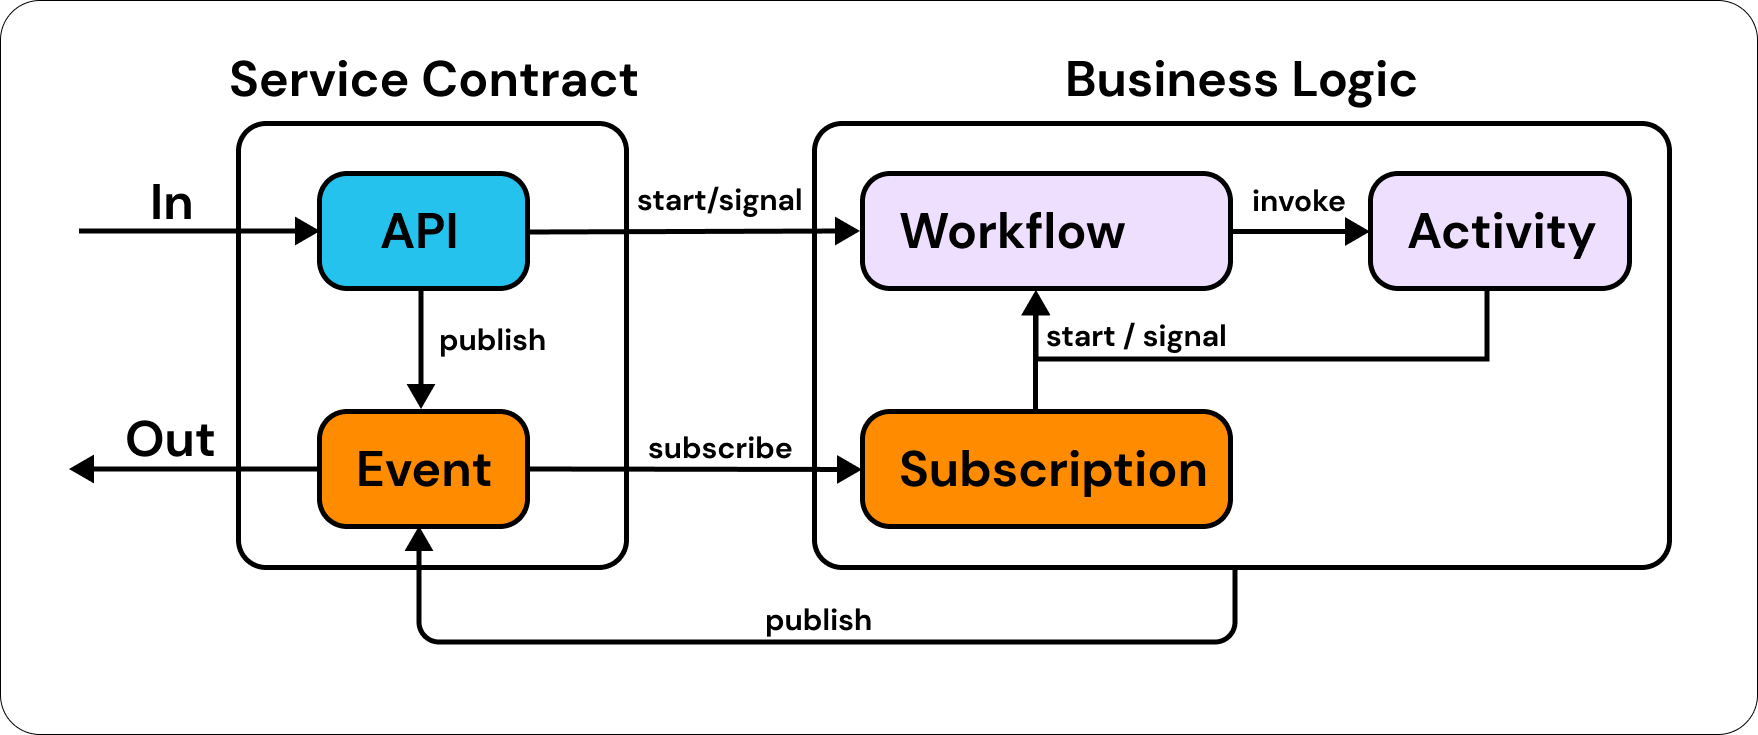
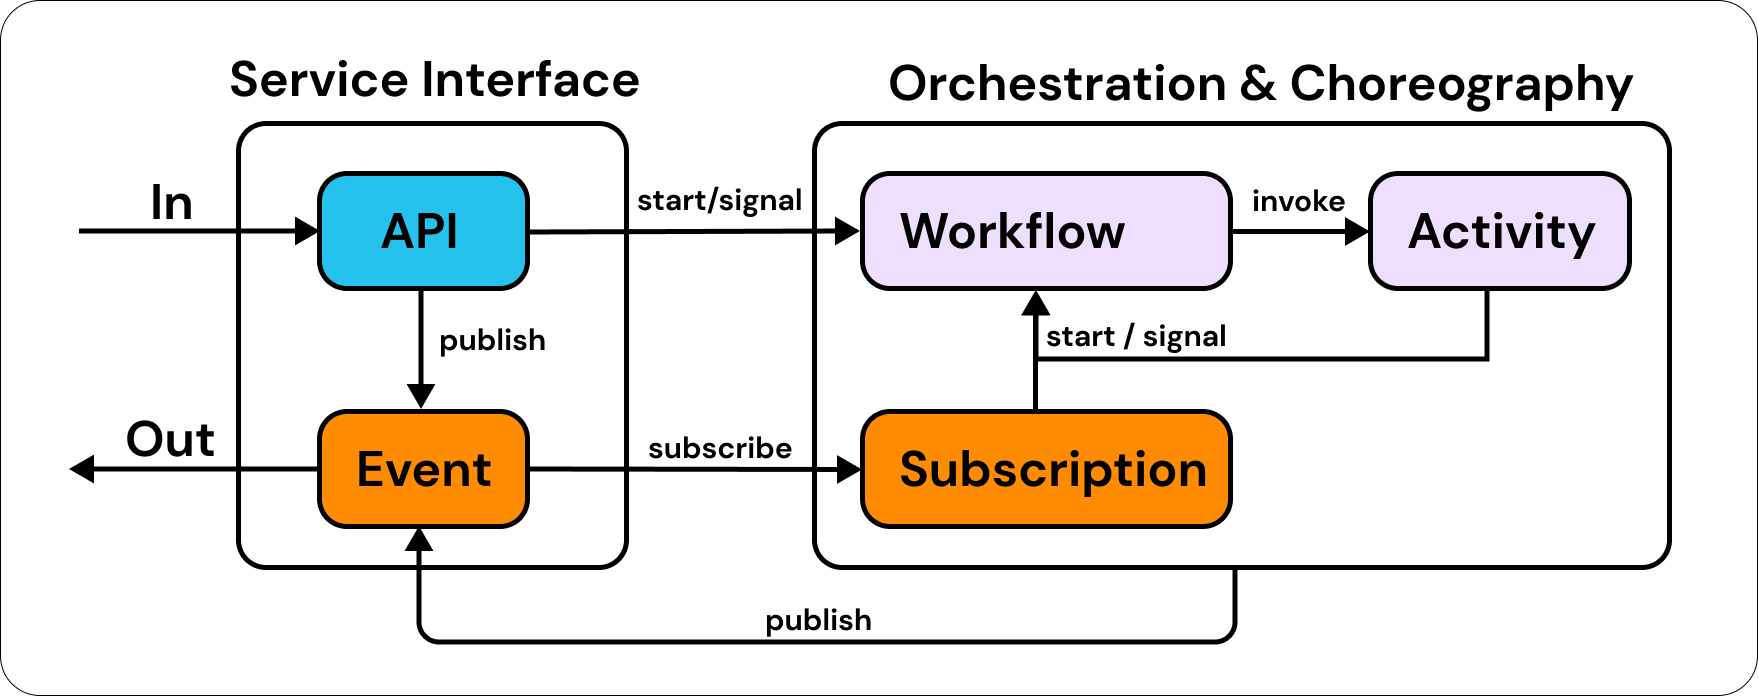
remove generator stuff, more improvementes

diff --git a/docs/architecture-and-internals/0-high-level.md b/docs/architecture-and-internals/0-high-level.md
@@ -53,13 +53,9 @@ Events can be routed between Services using Bus-to-Bus subscriptions. This funct
 
 ### Workflow Orchestrator Lambda Function
 
-The Workflow Orchestrator is a Lambda function that is triggered by the [Event Loop Queue](#workflow-execution-event-loop---sqs-fifo-queue) to manage the execution of a workflow. The function is responsible for processing a batch of events, interpreting them using the [Eventual Interpreter](./2-interpreter.md), and generating a list of [Commands](./1-commands.md) to be executed. These Commands are then executed or enqueued, and persisted in the event history bucket for future reference.
+The Workflow Orchestrator is a Lambda function that is triggered by the [Event Loop Queue](#workflow-execution-event-loop---sqs-fifo-queue) to manage the execution of a workflow. The function is responsible for processing a batch of events, processing them, and generating a list of [Commands](./1-commands.md) to be executed. These Commands are then executed or enqueued, and persisted in the event history bucket for future reference.
 
 In simple terms, the workflow orchestrator takes the next batch of events, plays them through the user's workflow function which then outputs the next "Commands" to invoke (for example start an activity, or schedule a timer). We call this the "event loop", similar to NodeJS's event loop, except processed in a distributed manor.
-
-:::info
-Workflows are ordinary functions that can execute over an arbitrary amount of time in a distributed serverless environment. For more information on how this is achieved, see the [Eventual Interpreter - Workflow Suspend & Resume](./2-interpreter.md#workflow-suspend--resume) documentation.
-:::
 
 ### Workflow Execution Event Loop - SQS FIFO Queue
 

diff --git a/docs/learn/1-what-is-eventual.md b/docs/learn/1-what-is-eventual.md
@@ -5,7 +5,7 @@ sidebar_position: 1
 
 # What is Eventual?
 
-Eventual is a code-first service and software development kit (SDK) that helps developers build event-driven systems using modern infrastructure-as-code (IaC).
+Eventual is a code-first service and software development kit (SDK) that helps developers build serverless micro-services in AWS with Infrastructure-as-Code (IaC).
 
 :::caution Video Coming Soon
 Stay tuned for an introductory video
@@ -13,15 +13,13 @@ Stay tuned for an introductory video
 
 ## Service
 
-Eventual is all about building and connecting microservices that expose useful capabilities as APIs and Event streams - all orchestrated by a durable Workflow engine.
+The top-level Concept of Eventual is a Service. Eventual provides you abstractions for defining your Service's Interface with `APIs` and `Events`, and then performing Event-Driven Orchestration & Choreography with `Workflows`, `Activities` and `Subscriptions`.
 
 ![Service Contract](../reference/service-contract.png)
 
-### Infrastructure
+### `Service` Construct
 
-An Eventual Service is distributed as Infrastructure-as-Code and deploys to your own infrastructure.
-
-### Service Construct
+It's a totally encapsulated micro-service deployable with a simple Construct that can be instantiated in an AWS CDK or Pulumi application.
 
 For example, you can use the [`Service`](../reference/service.md) Construct to deploy a fully functional service to AWS using the AWS CDK.
 

diff --git a/docs/examples.md b/docs/examples.md
@@ -1,0 +1,8 @@
+---
+sidebar_position: 4.1
+---
+
+# Examples
+
+- [Eventual Example Repository](https://github.com/functionless/eventual-examples) - a collection of eventual projects to help you get a feel and orient yourself around the programming model
+- Event-Driven-Architecture Patterns (Coming Soon) - a collection of patterns for event-driven-architectures and domain-driven-design, inspired by https://serverlessland.com/event-driven-architecture/visuals and implemented with Eventual.

diff --git a/docs/learn/5-unit-testing.md b/docs/learn/5-unit-testing.md
@@ -1,7 +1,7 @@
 ---
 ---
 
-# Local Simulation and Testing
+# Unit Testing
 
 :::caution Documentation Coming Soon
 :::

diff --git a/docs/learn/6-local-simulation.md b/docs/learn/6-local-simulation.md
@@ -1,7 +1,7 @@
 ---
 ---
 
-# REST and RPC
+# Local Simulation
 
 :::caution Documentation Coming Soon
 :::
